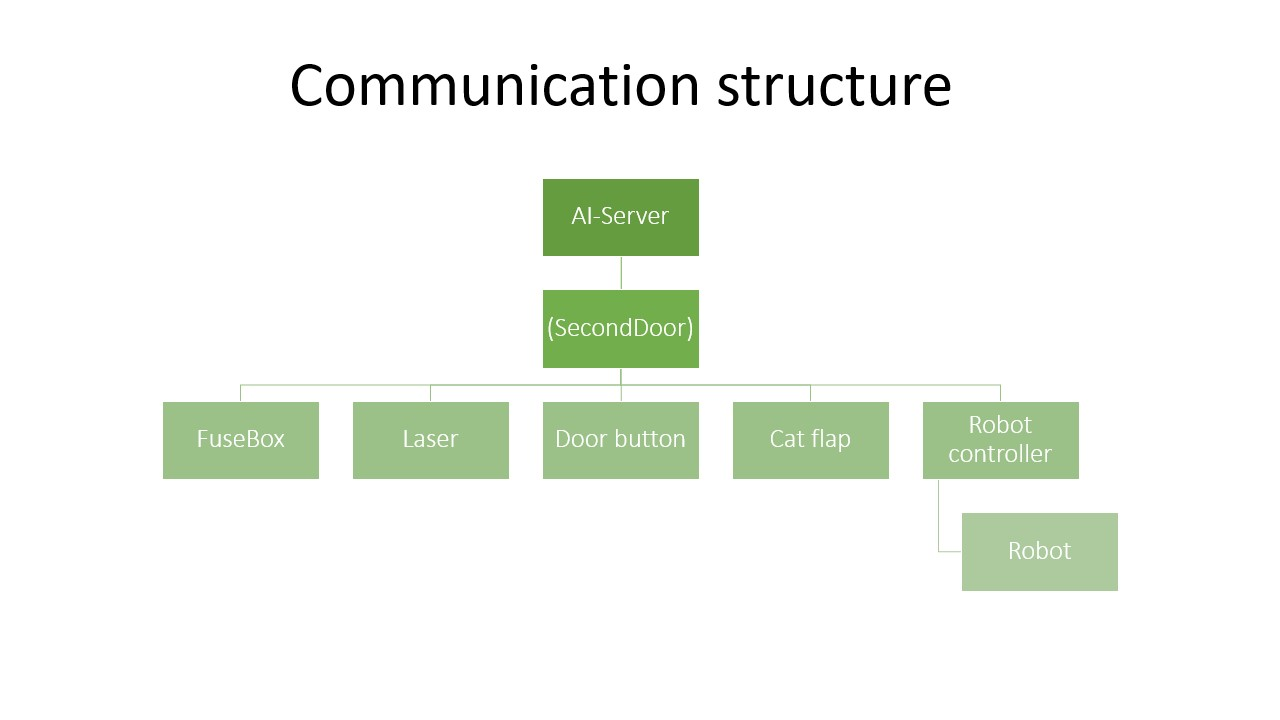
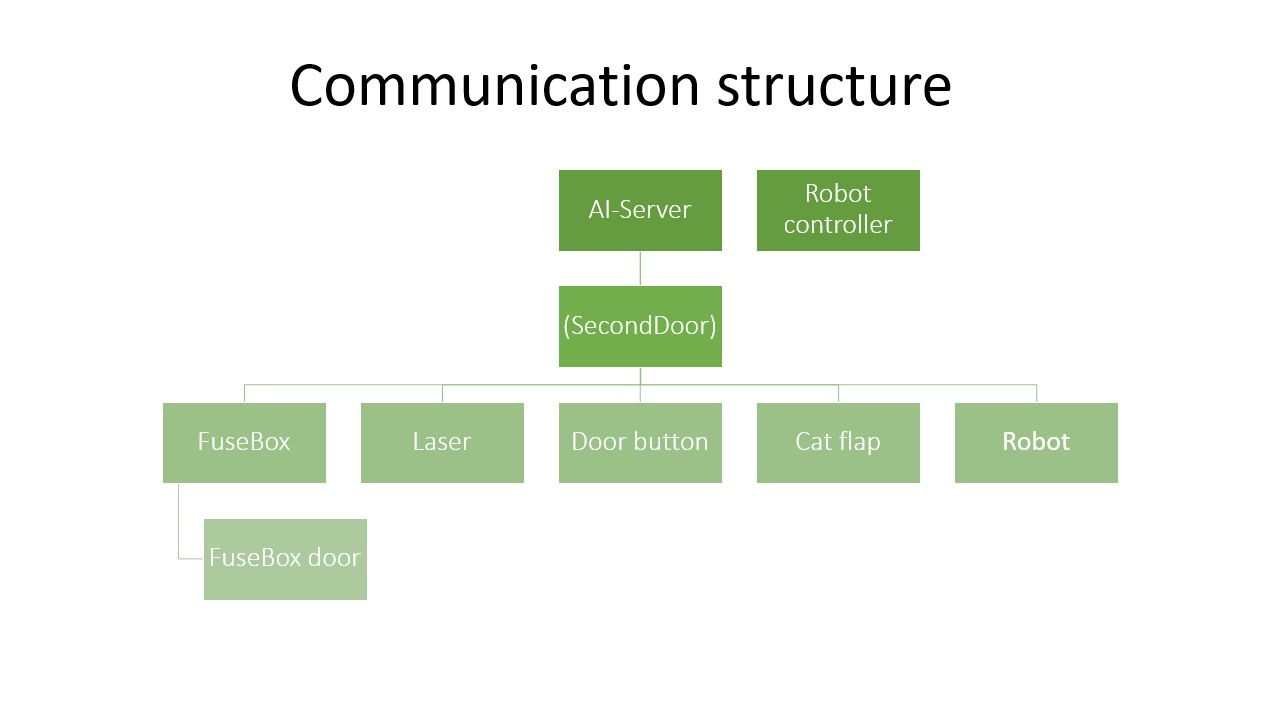
update robot and push button

diff --git a/docu/implementation.md b/docu/implementation.md
@@ -9,17 +9,29 @@ In this file we are going to show and document the main implementation tasks.
 </p>
 <p align="center">Figure 1: Visualization for the communication structure<p align="center">
 
-
 # Fuse Box
-
 
 # Laser + Box
 
 # Button to open door
 
+To open the door a button has to be pushed with the robot. The button needs to communicate with the rest of the room. To give a hint it should be possible to light it up.
+
+<p align="center"> 
+<img src="implementation/button/red_push_button.jpg" width=300>
+</p>
+<p align="center">Figure X: Push button to open the door inside the server room<p align="center">
+
 # Cat flap
 
-Maybe outsourcing to "door team"
+Not decided yet!
+
+**Problem**: sliding door does not allow much space for stepper/linear track/..
+
+Possible solutions:
+
+* FuseBox switches on the light inside the server room -> now robot can be seen inside the room
+* usual cat flap with small lock
 
 # Robot with controller
 
@@ -32,9 +44,11 @@ The robot will be controlled with an wireless PS2 controller which is attached t
 
 <p align="center">Figure X: PS2 controller wireless with pinout<p align="center">
 
-Possible hardware implementation in figure below.
+As chassis for the robot an old prototype from the university is used(Picture will follow). There is already some electronic to controll the two dc-motors.
 
 <p align="center"> 
-<img src="implementation/robot/overview_robot_electronic.jpg" width=400>
+<img src="implementation/robot/engine_control_robot.png" width=400>
 </p>
-<p align="center">Figure X: Visualization for the possible robot hardware<p align="center">
+<p align="center">Figure X: Pinout for existing robot electronic<p align="center">
+
+The pins "motor A1" and "motor A2" are used to controll the left wheel of the robot. Pins "motor B1" and "motor B2" for the right wheel. A LED is used to visualize if the battery of the robot is low. Furthermore there are LEDs "arround" the robot to attract attention of the participants.
